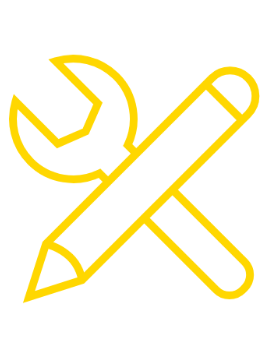
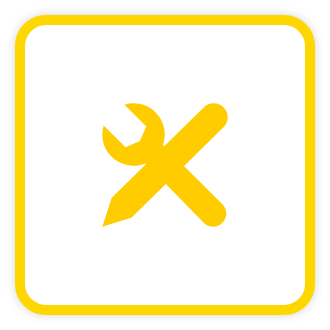
메인화면의 구성을 변경하였습니다.

Changed region(s): [[0.0296, 0.0303, 0.9778, 0.9697]]

diff --git a/public/js/game.js b/public/js/game.js
@@ -1,5 +1,3 @@
-let selection = 0;
-let selectionList = ['menuMain', 'menuEditor', 'menuAdvanced', 'menuStore'];
 let display = 0;
 let username = '';
 let analyser, dataArray;
@@ -512,24 +510,6 @@ Pace.on('done', () => {
   }
   loaded = 1;
 });
-
-const menuLeft = () => {
-  document.getElementById(selectionList[selection]).style.display = "none";
-  selection--;
-  if(selection < 0) {
-    selection = selectionList.length - 1;
-  }
-  document.getElementById(selectionList[selection]).style.display = "flex";
-};
-
-const menuRight = () => {
-  document.getElementById(selectionList[selection]).style.display = "none";
-  selection++;
-  if(selection > selectionList.length - 1) {
-    selection = 0;
-  }
-  document.getElementById(selectionList[selection]).style.display = "flex";
-};
 
 const infoScreen = () => {
   display = 4;
@@ -1082,8 +1062,8 @@ const addToCart = s => {
   });
 };
 
-const menuSelected = () => {
-  if(selection == 0) {
+const menuSelected = (n) => {
+  if(n == 0) {
     //play
     display = 1;
     if(songSelection == -1) {
@@ -1093,15 +1073,15 @@ const menuSelected = () => {
     }
     document.getElementById("selectContainer").style.display = "flex";
     document.getElementById("selectContainer").classList.add("fadeIn");
-  } else if(selection == 1) {
+  } else if(n == 1) {
     //editor
     window.location.href = `${url}/editor`;
-  } else if(selection == 2) {
+  } else if(n == 2) {
     //advanced
     display = 3;
     document.getElementById("advancedContainer").style.display = "block";
     document.getElementById("advancedContainer").classList.add("fadeIn");
-  } else if(selection == 3) {
+  } else if(n == 3) {
     //store
     document.getElementById("storeContainer").style.display = "block";
     document.getElementById("storeContainer").classList.add("fadeIn");

diff --git a/public/css/game.css b/public/css/game.css
@@ -57,11 +57,6 @@ body {
   height: 18vh;
 }
 
-.shadowIcon {
-  filter: drop-shadow(0 0 5px rgba(30,30,30,.3));
-  height: 18vh;
-}
-
 .menuTitle {
   font-size: 3vh;
   font-weight: 600;
@@ -296,12 +291,6 @@ p {
   margin: 5px;
 }
 
-#Hline {
-  border-top: 2px solid #BBB;
-  width: 1.5em;
-  margin: 10px;
-}
-
 #selectContainer {
   background: #000 !important;
   position: fixed;
@@ -352,22 +341,6 @@ p {
   transform: scale(1);
 }
 
-#menuMain {
-  display: flex;
-}
-
-#menuEditor {
-  display: none;
-}
-
-#menuAdvanced {
-  display: none;
-}
-
-#menuStore {
-  display: none;
-}
-
 .menuSelector {
   width: 13vw;
   display: flex;
@@ -383,10 +356,6 @@ p {
 
 .clickable {
   cursor: pointer;
-}
-
-#editorIcon {
-  margin-left: -8px;
 }
 
 .closeBtn {
